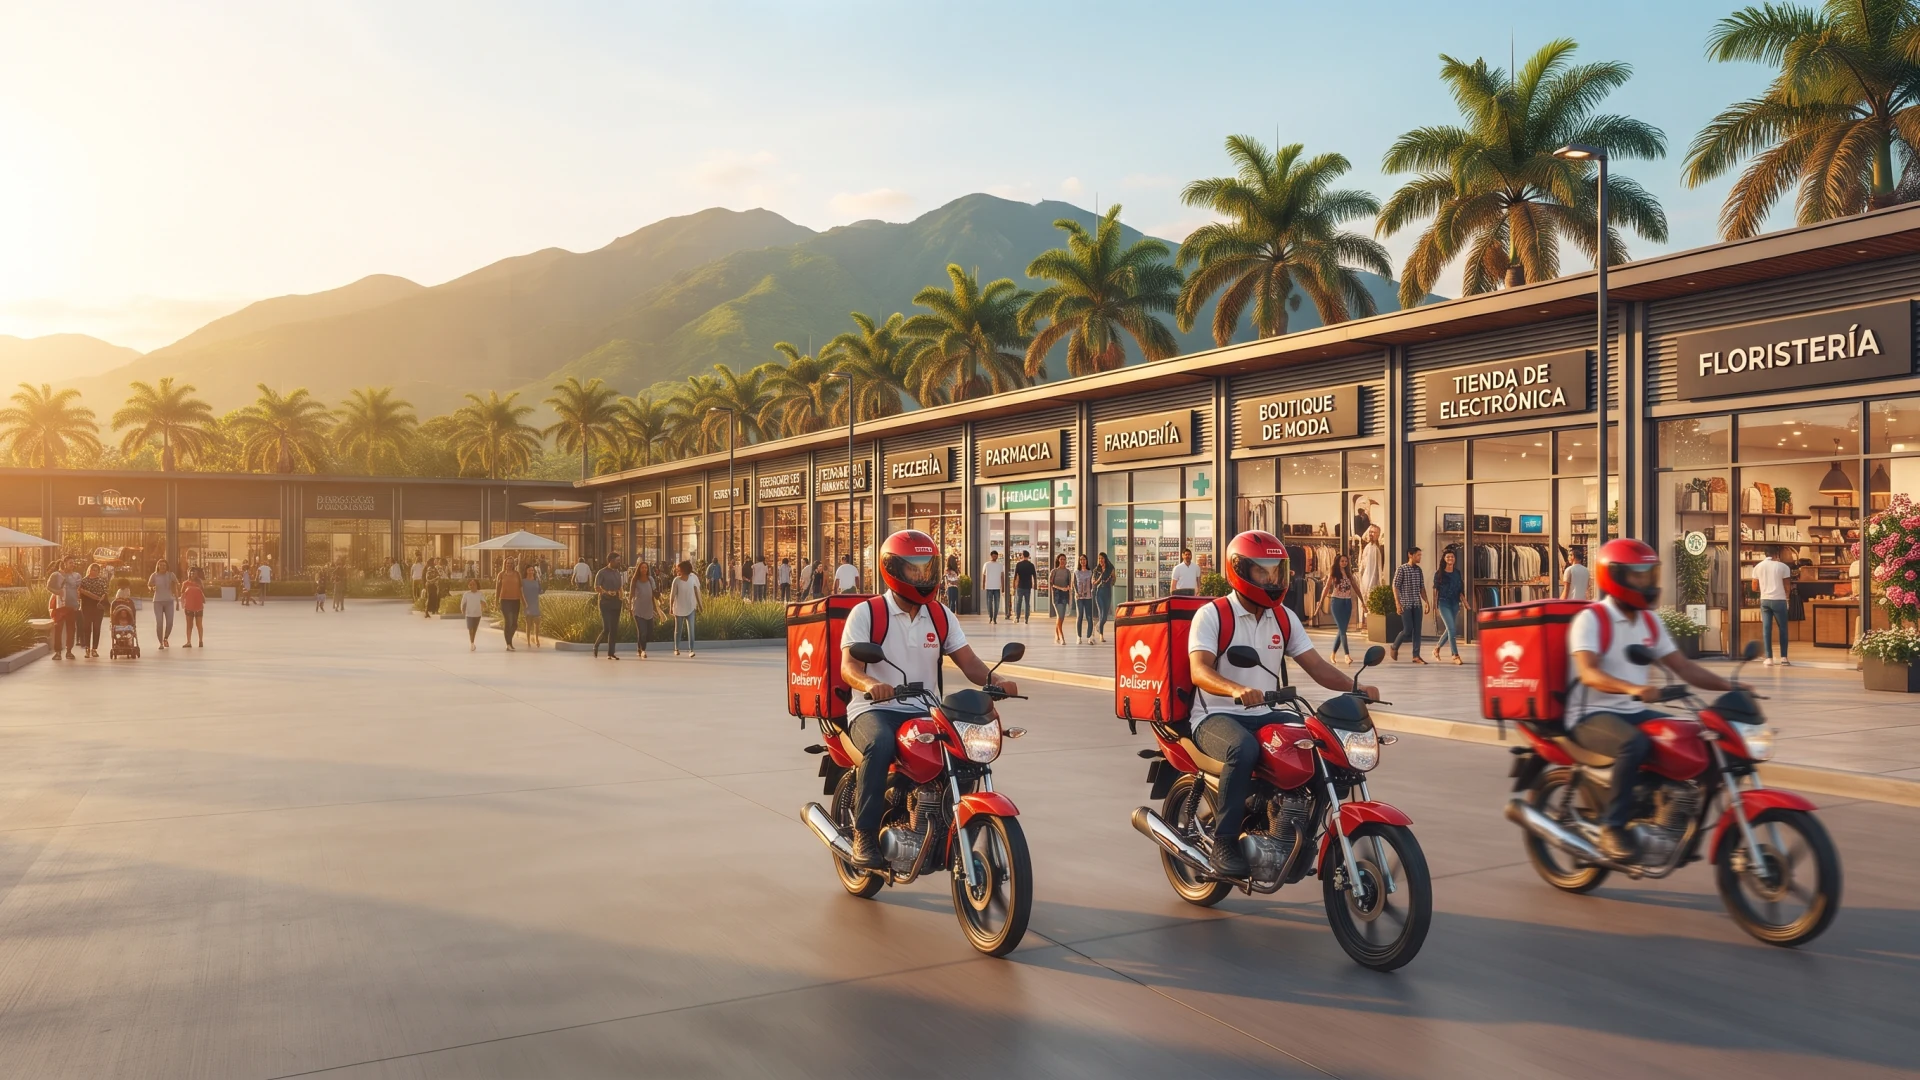
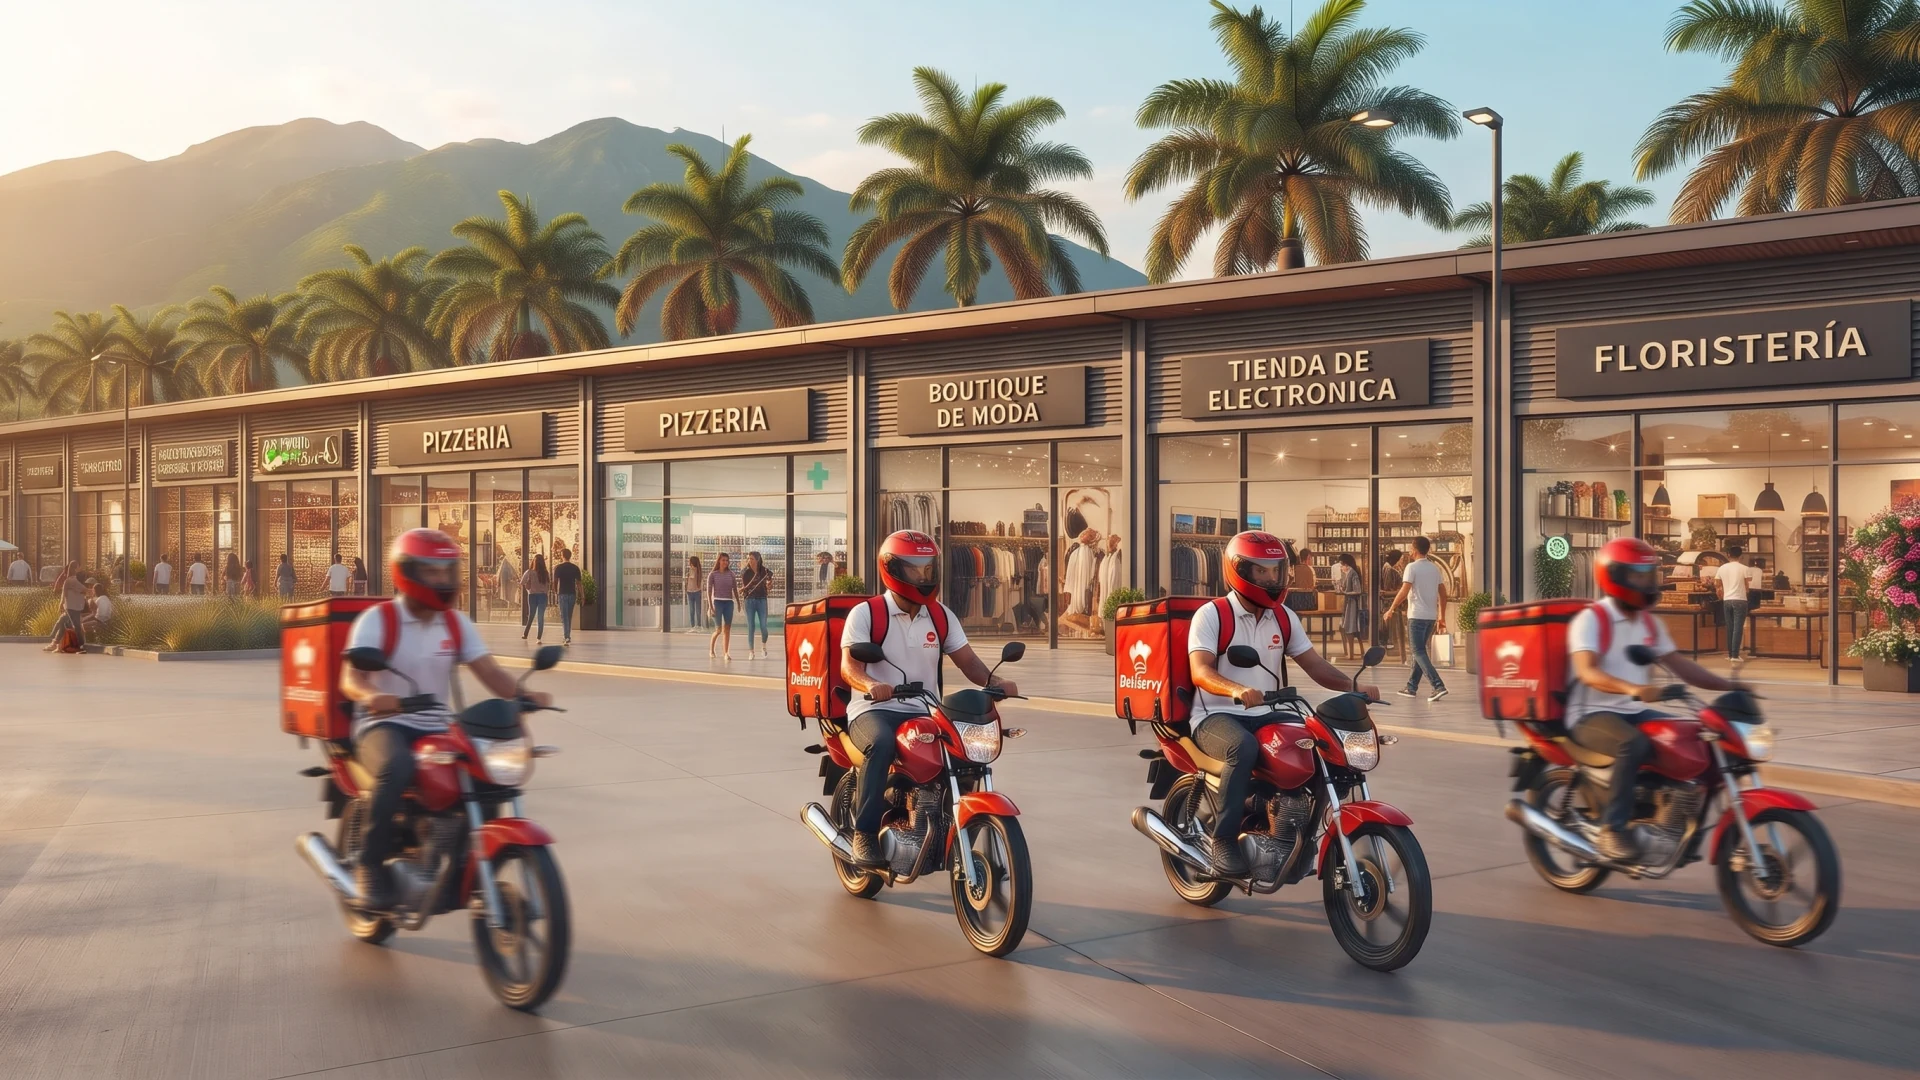
Web › /flota: fotos nuevas del centro comercial con los letreros bien escritos (Pizzería, Boutique de moda, Tienda de electrónica, Floristería; Gemini había puesto «Faradenía», «Parmacia» y «Peccería») y, en el teléfono, la foto sin agrandar para que se lean los tres letreros con los motorizados enc

diff --git a/flota/index.html b/flota/index.html
@@ -79,11 +79,11 @@
     footer{text-align:left}
   }
 
-  /* En el teléfono la foto baja un poco más y se agranda: las tiendas y los motorizados quedan justo encima del título. */
+  /* En el teléfono la foto ocupa lo de arriba entera (sin agrandar): se leen los tres letreros y los motorizados quedan encima del título. */
   :root{--pos-v:center top;--pos-h:center}
   @media (max-width:899px),(orientation:portrait){
     .fondo{height:76vh;height:76svh}
-    .f{background-size:auto 128%}
+    .f{background-size:cover}
   }
   .f1{background-image:url(/assets/fotos/flota-1-v.webp)}
   @media (orientation:landscape){.f1{background-image:url(/assets/fotos/flota-1-h.webp)}}
